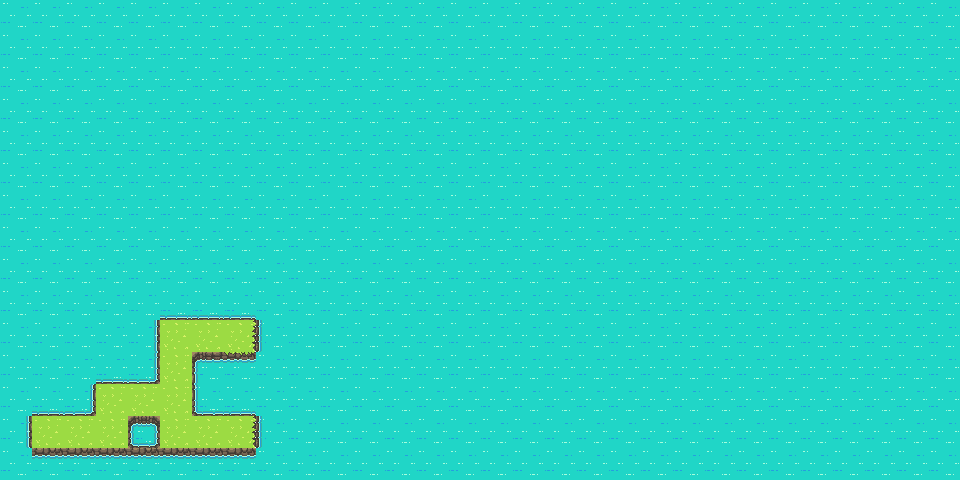
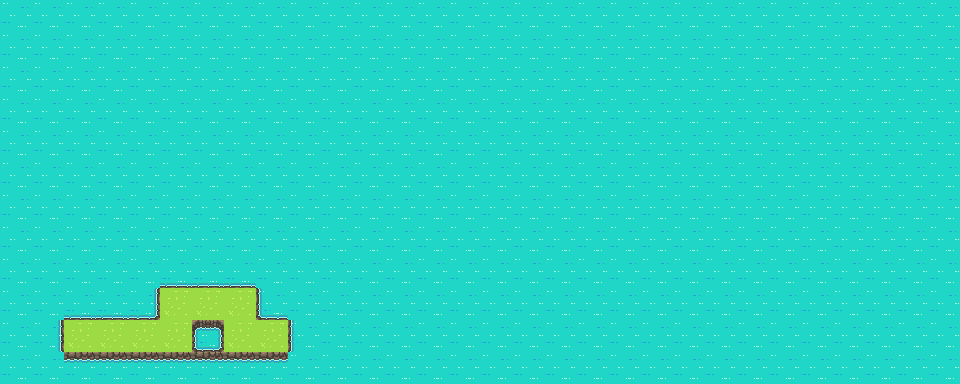
Fix/ Mapa

diff --git a/pacCode/src/app/jogo/jogo.component.html b/pacCode/src/app/jogo/jogo.component.html
@@ -6,7 +6,7 @@
   </div>
   <div class="toolbar-title-container">
     <mat-icon>clock</mat-icon>
-    <span class="toolbar-title">Jogo</span>
+    <span class="toolbar-title">Fase 1</span>
   </div>
 </mat-toolbar>
 
@@ -14,92 +14,35 @@
 
   <!--game-->
   <div class="mapa-game-container">
-    <!-- <canvas #myCanvas height="640" width="640"></canvas> -->
-    <canvas #myCanvas ></canvas>
+     <canvas #myCanvas height="400" width="960"></canvas>
+<!--    <canvas #myCanvas ></canvas>-->
   </div>
 
   <div class="game-controls-container">
 
 
-      <div class="game-controls-container">
 
-        <div class="direction-controls-container">
-          <h3>Direções</h3>
-          <div class="direction-controls">
-            <div class="control-box" (click)="addCommand('up')"><img src="../../assets/icons/Cima.svg"></div>
-            <div class="control-box" (click)="addCommand('down')"><img src="../../assets/icons/Baixo.svg"></div>
-            <div class="control-box" (click)="addCommand('left')"><img src="../../assets/icons/Esquerda.svg"></div>
-            <div class="control-box" (click)="addCommand('right')"><img src="../../assets/icons/Direita.svg"></div>
-          </div>
+      <div class="direction-controls-container">
+        <h3>Direções</h3>
+        <div class="direction-controls">
+          <div class="control-box" (click)="addCommand('up')"><img src="../../assets/icons/Cima.svg"></div>
+          <div class="control-box" (click)="addCommand('down')"><img src="../../assets/icons/Baixo.svg"></div>
+          <div class="control-box" (click)="addCommand('left')"><img src="../../assets/icons/Esquerda.svg"></div>
+          <div class="control-box" (click)="addCommand('right')"><img src="../../assets/icons/Direita.svg"></div>
         </div>
-
-        <div class="command-controls-container">
-          <h3>Comandos</h3>
-          <div class="command-controls">
-            <!-- <div class="command-box" *ngFor="let command of commands">{{command}}</div> -->
-            <div class="command-box"></div>
-            <div class="command-box"></div>
-            <div class="command-box"></div>
-            <div class="command-box"></div>
-            <div class="command-box"></div>
-            <div class="command-box"></div>
-            <div class="command-box"></div>
-            <div class="command-box"></div>
-          </div>
-        </div>
-
-        <div class="play-controls-container">
-          <button class="play-button" mat-raised-button color="primary" (click)="executeCommands()"><mat-icon>play_arrow</mat-icon></button>
-          <button class="delete-button" mat-raised-button color="warn" (click)="deleteLastCommand()"><mat-icon>delete</mat-icon></button>
-        </div>
-
       </div>
 
-    </div>
-
-
-
-
-  <!-- <div class="partida_container__start__reset">
-    <button class="partida_container__start__reset__button" (click)="resetOptionsSelect()">
-      <img class="partida_container__start__reset__button__icon" src="../../assets/drag_drop/reset.svg">
-    </button>
-    <button class="partida_container__start__reset__button" (click)="startAnimations()" >
-      <img class="partida_container__start__reset__button__icon"  src="../../assets/drag_drop/start.svg">
-    </button>
-  </div> -->
-
-  <!--  controler -->
-  <!-- <div class="partida_container__controls">
-    <div cdkDropListGroup class="drag_container_options"> -->
-      <!--  opções de seleção-->
-      <!-- <div cdkDropList [cdkDropListData]="options" class="drag_container_options__start"
-           cdkDropListOrientation="horizontal">
-        <img class="drag_container_options__item" *ngFor="let item of options; let i = index" cdkDrag src="{{item.path}}">
-      </div> -->
-      <!--  campo para destino de opçõs de função -->
-      <!-- <div cdkDropList [cdkDropListData]="selected_normal" cdkDropListOrientation="horizontal"
-           class="drag_container_options__destine"
-           (cdkDropListDropped)="dropOptionElementNormal($event)">
-        <img class="drag_container_options__item" *ngFor="let item of selected_normal; let i = index" cdkDrag src="{{item.path}}"  (dblclick)="onRemoveItemListNormal(i)" >
-      </div> -->
-      <!--   fundo de opção selecinadas-->
-      <!-- <img class="drag_container_options__img__sequence" src="../../assets/drag_drop/campo_sequencia.png"> -->
-
-      <!--  icone de opçao de função-->
-      <!-- <div cdkDropList [cdkDropListData]="option_function" class="drag_container_options__function"
-           cdkDropListOrientation="horizontal">
-        <img class="drag_container_options__item" *ngFor="let item of option_function" cdkDrag src="{{item.path}}">
+      <div class="command-controls-container">
+        <h3>Comandos</h3>
+        <div class="command-controls">
+           <div class="command-box" *ngFor="let command of commands">
+             <img [src]="getCommandImage(command)">
+           </div>
+        </div>
       </div>
-      <div cdkDropList [cdkDropListData]="selected_function" cdkDropListOrientation="horizontal"
-           class="drag_container_options__destine__function"
-           (cdkDropListDropped)="dropOptionElementFunction($event)">
-        <img class="drag_container_options__item" *ngFor="let item of selected_function; let j = index" cdkDrag src="{{item.path}}" (dblclick)="onRemoveItemListFunction(j)" >
+      <div class="play-controls-container">
+        <button class="play-button" mat-raised-button color="primary" (click)="executeCommands()"><mat-icon>play_arrow</mat-icon></button>
+        <button class="delete-button" mat-raised-button color="warn" (click)="deleteLastCommand()"><mat-icon>delete</mat-icon></button>
       </div>
-      <img class="drag_container_options__img__sequence__function" src="../../assets/drag_drop/campo_funcao.png">
-    </div>
-  </div> -->
+  </div>
 </div>
-
-
-

diff --git a/pacCode/src/app/jogo/jogo.component.ts b/pacCode/src/app/jogo/jogo.component.ts
@@ -1,4 +1,4 @@
-import { CdkDragDrop, copyArrayItem } from '@angular/cdk/drag-drop';
+import { CdkDragDrop, copyArrayItem, moveItemInArray } from '@angular/cdk/drag-drop';
 import { Component, ElementRef, EventEmitter, OnInit, Output, ViewChild } from '@angular/core';
 import { MatDialog } from '@angular/material/dialog';
 import { Router } from '@angular/router';
@@ -53,10 +53,10 @@ export class JogoComponent implements OnInit {
 
   ) {
     this.options = [
-      new ItemDirecao("assets/drag_drop/top.svg", 't'),
-      new ItemDirecao("assets/drag_drop/button.svg", 'b'),
-      new ItemDirecao("assets/drag_drop/left.svg", 'l'),
-      new ItemDirecao("assets/drag_drop/right.svg", 'r'),
+      new ItemDirecao("/assets/icons/Cima.svg", 'c'),
+      new ItemDirecao("../../assets/icons/Baixo.svg", 'b'),
+      new ItemDirecao("../../assets/icons/Esquerda.svg", 'e'),
+      new ItemDirecao("../../assets/icons/Direita.svg", 'd'),
     ];
     this.option_function = [
       new ItemDirecao('assets/drag_drop/function.svg', 'f')
@@ -82,13 +82,40 @@ this.directions = []
 
     // this.loadMedals()
 
-    // this.onAnimate();
+    this.onAnimate();
   }
 
   commands: string[] = [];
+  commandSelected!: string;
+  selectedImage!: string;
 
   addCommand(command: string): void {
-    this.commands.push(command);
+    if(this.commands.length < 8){
+      this.commands.push(command);
+      this.commandSelected = command;
+    } else {
+      alert("Número máximo de comando atingido!!")
+    }
+
+  }
+
+  onDrop(event: CdkDragDrop<string[]>) {
+    moveItemInArray(this.commands, event.previousIndex, event.currentIndex);
+  }
+
+  getCommandImage(command: string): string {
+    switch (command) {
+      case 'up':
+        return '../../assets/icons/Cima.svg';
+      case 'down':
+        return '../../assets/icons/Baixo.svg';
+      case 'left':
+        return '../../assets/icons/Esquerda.svg';
+      case 'right':
+        return '../../assets/icons/Direita.svg';
+      default:
+        return '';
+    }
   }
 
   deleteLastCommand(): void {
@@ -363,7 +390,6 @@ this.directions = []
           }
         }
       )
-
       // detectando colisão entre as paredes
       this.boundaries.forEach((el: any) => {
         if (this.detectCollision(this.jogador, el)) {
@@ -376,44 +402,37 @@ this.directions = []
       });
 
       // fazendo caminhos
-      if (this.directions[0] === "r" && this.pixelMove <= 32) {
+      if (this.directions[0] === "d" && this.pixelMove <= 32) {
         this.jogador.posicao.x += 1;
         this.jogador.image = this.jogador.sprites.right;
         this.jogador.moving = true;
-
-
       }
-      if (this.directions[0] === "l" && this.pixelMove <= 32) {
+      if (this.directions[0] === "e" && this.pixelMove <= 32) {
         this.jogador.posicao.x -= 1;
         this.jogador.image = this.jogador.sprites.left;
         this.jogador.moving = true;
-
       }
       if (this.directions[0] === "b" && this.pixelMove <= 32) {
         this.jogador.posicao.y += 1;
         this.jogador.image = this.jogador.sprites.bottom;
         this.jogador.moving = true;
-
       }
-      if (this.directions[0] === "t" && this.pixelMove <= 32) {
+      if (this.directions[0] === "c" && this.pixelMove <= 32) {
         this.jogador.posicao.y -= 1;
         this.jogador.image = this.jogador.sprites.top;
         this.jogador.moving = true;
-
       }
-
-
       this.pixelMove += 1;
-
-
     }
-
-
   }
 
+  onCloneCommand(index: number) {
+    const clonedItem = Object.assign({}, this.selected_normal[index]);
+    this.selected_normal.splice(index + 1, 0, clonedItem);
+  }
 
   dropOptionElementNormal(event: CdkDragDrop<ItemDirecao[]>) {
-    if (this.selected_normal.length <= 9)
+    if (this.selected_normal.length <= 8)
       copyArrayItem(
         event.previousContainer.data,
         event.container.data,

diff --git a/pacCode/src/app/jogo/jogo.component.scss b/pacCode/src/app/jogo/jogo.component.scss
@@ -30,25 +30,55 @@
 }
 
 .mapa-game-container {
-  height: 800;
-  width: 640;
-  background-color: #000000;
-  // margin-bottom: -70px;
+  // height: 600;
+  // width: 640;
+  // background-color: #000000;
+  max-height: 400px;
+
   display: flex;
-  margin-left: 2vw;
-  justify-content: flex-start;
+
+  margin-left: 2rem;
+  margin-right: 2rem;
+  margin-bottom: 0.5rem;
+  justify-content: center;
 }
 
 .game-controls-container {
+  max-height: 10rem;
   display: flex;
-  justify-content: space-between;
-  margin: 1rem;
+  justify-content: space-evenly;
+  align-items: center;
+  margin-left: 2rem;
+  margin-right: 2rem;
   border: 1px solid black;
 }
 
-.direction-controls-container, .command-controls-container {
-  width: 45%;
-  margin-bottom: 16px;
+.direction-controls-container {
+  display: flex;
+  flex-direction: column;
+  width: 10%;
+  margin-top: 0.5rem;
+  margin-bottom: 0.5rem;
+  margin-right: 0.8rem;
+  margin-left: 1.6rem;
+
+}
+
+.command-controls-container{
+  margin-top: 0.5rem;
+  margin-bottom: 0.5rem;
+  margin-right: 0.8rem;
+  margin-left: 0.8rem;
+  //z-index: 2;
+  .command-controls {
+    //z-index: 2;
+    display: flex;
+    width: 35vw;
+    height: 10vh;
+    flex-wrap: wrap;
+    gap: 8px;
+    border: 1px solid black;
+  }
 
 }
 
@@ -56,10 +86,10 @@ h3 {
   margin: 0 0 8px;
 }
 
-.direction-controls, .command-controls {
+.direction-controls{
   display: flex;
   flex-wrap: wrap;
-  gap: 8px;
+  gap: 4px;
 }
 
 .control-box, .command-box {
@@ -80,22 +110,45 @@ h3 {
   display: flex;
   justify-content: center;
   align-items: center;
-  gap: 16px;
-  margin: 1.6rem;
+  gap: 10px;
+  margin-top: 1.6rem;
+  margin-bottom: 1.6rem;
+  margin-right: 1.6rem;
+  margin-left: 0.8rem;
 
   .play-button{
-    height: 5vh;
-    width: 5vw;
+    height: 64px;
+    width: 64px;
+    display: flex;
     align-items: center;
     justify-content: center;
+
+    mat-icon {
+      display: flex;
+      align-items: center;
+      justify-content: center;
+      font-size: 46px;
+      margin: 0;
+      overflow: visible;
+    }
   }
 
   .delete-button{
+    height: 64px;
+    width: 64px;
+    display: flex;
+    align-items: center;
+    justify-content: center;
 
+    mat-icon {
+      display: flex;
+      align-items: center;
+      justify-content: center;
+      font-size: 26px;
+      margin: 0;
+      overflow: visible;
+    }
   }
-
-
-
 }
 
 

diff --git a/pacCode/src/app/util/colisao.ts b/pacCode/src/app/util/colisao.ts
@@ -12,13 +12,10 @@ export class Colisao{
         0, 0, 0, 0, 0, 0, 0, 0, 0, 0, 0, 0, 0, 0, 0, 0, 0, 0, 0, 0, 0, 0, 0, 0, 0, 0, 0, 0, 0, 0,
         0, 0, 0, 0, 0, 0, 0, 0, 0, 0, 0, 0, 0, 0, 0, 0, 0, 0, 0, 0, 0, 0, 0, 0, 0, 0, 0, 0, 0, 0,
         0, 0, 0, 0, 0, 0, 0, 0, 0, 0, 0, 0, 0, 0, 0, 0, 0, 0, 0, 0, 0, 0, 0, 0, 0, 0, 0, 0, 0, 0,
-        0, 0, 0, 0, 0, 0, 0, 0, 0, 0, 0, 0, 0, 0, 0, 0, 0, 0, 0, 0, 0, 0, 0, 0, 0, 0, 0, 0, 0, 0,
         0, 0, 0, 0, 177, 177, 177, 177, 177, 0, 0, 0, 0, 0, 0, 0, 0, 0, 0, 0, 0, 0, 0, 0, 0, 0, 0, 0, 0, 0,
-        0, 0, 0, 0, 177, 0, 0, 0, 177, 0, 0, 0, 0, 0, 0, 0, 0, 0, 0, 0, 0, 0, 0, 0, 0, 0, 0, 0, 0, 0,
-        0, 0, 177, 177, 177, 0, 177, 177, 177, 0, 0, 0, 0, 0, 0, 0, 0, 0, 0, 0, 0, 0, 0, 0, 0, 0, 0, 0, 0, 0,
-        177, 177, 177, 0, 0, 0, 177, 177, 177, 0, 0, 0, 0, 0, 0, 0, 0, 0, 0, 0, 0, 0, 0, 0, 0, 0, 0, 0, 0, 0,
-        177, 0, 0, 0, 177, 0, 0, 0, 177, 0, 0, 0, 0, 0, 0, 0, 0, 0, 0, 0, 0, 0, 0, 0, 0, 0, 0, 0, 0, 0,
-        177, 177, 177, 177, 177, 177, 177, 177, 177, 0, 0, 0, 0, 0, 0, 0, 0, 0, 0, 0, 0, 0, 0, 0, 0, 0, 0, 0, 0, 0];
+        0, 177, 177, 177, 177, 0, 0, 0, 177, 177, 0, 0, 0, 0, 0, 0, 0, 0, 0, 0, 0, 0, 0, 0, 0, 0, 0, 0, 0, 0,
+        0, 177, 0, 0, 0, 0, 177, 0, 0, 177, 0, 0, 0, 0, 0, 0, 0, 0, 0, 0, 0, 0, 0, 0, 0, 0, 0, 0, 0, 0,
+        0, 177, 177, 177, 177, 177, 177, 177, 177, 177, 0, 0, 0, 0, 0, 0, 0, 0, 0, 0, 0, 0, 0, 0, 0, 0, 0, 0, 0, 0];
     } else if (fase === 2) {
       return [0, 0, 0, 0, 0, 0, 0, 0, 0, 0, 0, 0, 0, 0, 0, 0, 0, 0, 0, 0,
         321, 321, 321, 321, 321, 321, 321, 0, 0, 0, 0, 0, 0, 0, 0, 0, 0, 0, 0, 0,
